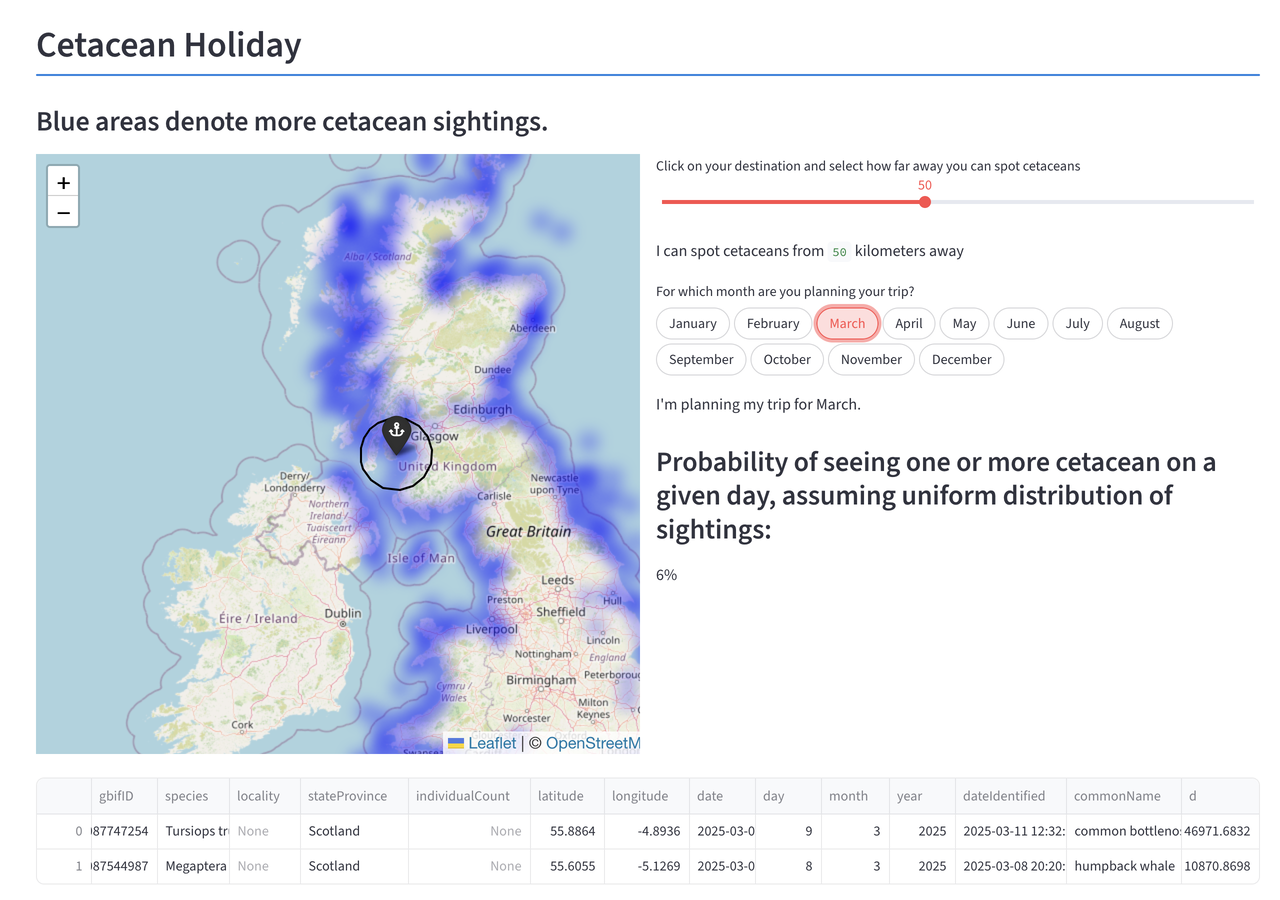
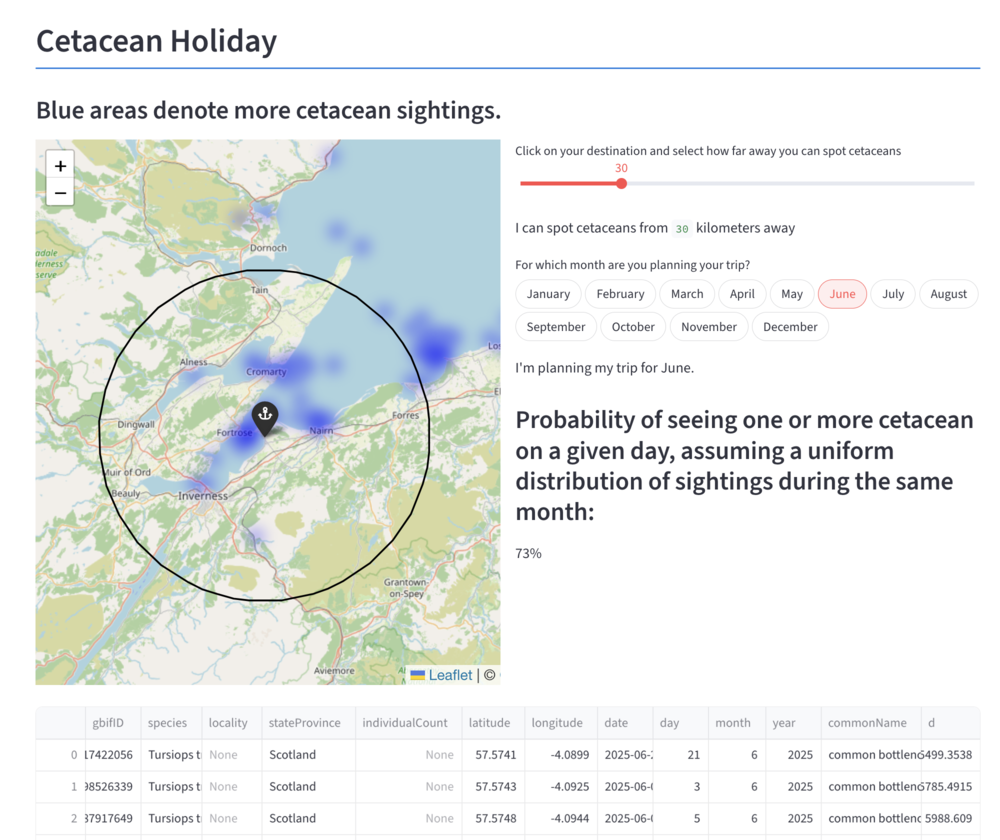
updated screenshot

diff --git a/app/streamlit.py b/app/streamlit.py
@@ -125,7 +125,7 @@ def main():
     left, right = st.columns([1, 1])
 
     with right:
-        radius = st.slider("Click on your destination and select how far away you can spot cetaceans", 10, 100, 50, 10)
+        radius = st.slider("Click on your destination and select the distance from which you can spot cetaceans", 10, 100, 50, 10)
         st.write("I can spot cetaceans from ", radius, "kilometers away")
 
         pill_options = ['January', 'February', 'March', 'April',
